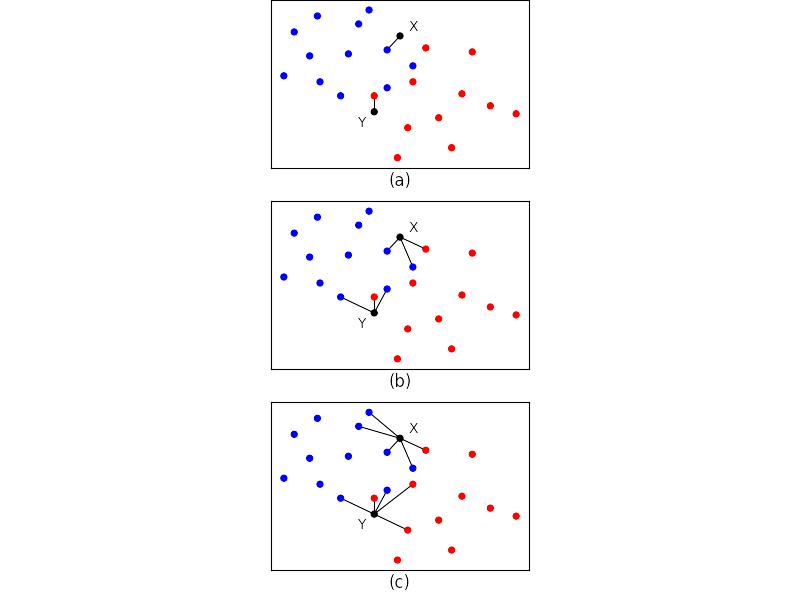
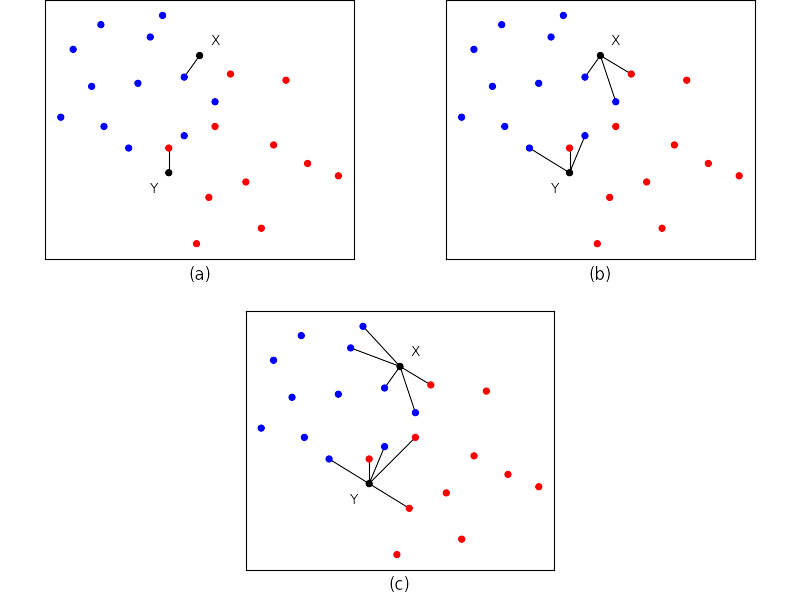
Changed layout of the kNN demo

diff --git a/src/examples/kNNDemo.py b/src/examples/kNNDemo.py
@@ -97,30 +97,35 @@ def main(figureSaveLocation):
 
     # Create the figure, the grids for the subplots and determine the spacing for the subplots.
     currentFigure = plt.figure()
-    gs = gridspec.GridSpec(3, 3)
-    gs.update(left=0, right=1, bottom=0.05, top=1, wspace=0.05)#, hspace=0.05)
+    gsTopRow = gridspec.GridSpec(2, 4)
+    gsBotRow = gridspec.GridSpec(2, 4)
+    gsTopRow.update(left=0.005, right=0.995, bottom=0.05, top=1, wspace=0.05)#, hspace=0.05)
+    gsBotRow.update(left=0.005, right=0.995, bottom=0.05, top=1, wspace=0.05)#, hspace=0.05)
 
     # Create the scatterplot for the 1NN graph.
-    leftScatterPlot = plt.subplot(gs[0, 1])  # Scatter plot for the 1NN example.
+    scatter1NN = plt.subplot(gsTopRow[0, 0:2])  # Scatter plot for the 1NN example.
+    scatter1NN.axis('scaled')
     scatterplot.graphGeneration(scatterXValues, scatterYValues, currentFigure=currentFigure, colors=colors, sizes=sizes, zorders=scatterZorders)
-    leftScatterPlot.set_xlim(left=scatterXMin - 0.5, right=scatterXMax + 0.5)
-    leftScatterPlot.set_ylim(bottom=scatterYMin - 0.5, top=scatterYMax + 0.5)
+    scatter1NN.set_xlim(left=scatterXMin - 0.5, right=scatterXMax + 0.5)
+    scatter1NN.set_ylim(bottom=scatterYMin - 0.5, top=scatterYMax + 0.5)
     linegraph.graphGeneration(coords1NNXValues, coords1NNYValues, currentFigure=currentFigure, markerSizes=[0] * 2, lineWidths=[1.0] * 2, zorders=lineZorder)
     addtext.graphGeneration([dataPointXTextXValue, dataPointYTextXValue], [dataPointXTextYValue, dataPointYTextYValue], ['X', 'Y'], currentFigure=currentFigure)
 
     # Create the scatterplot for the 3NN graph.
-    midScatterPlot = plt.subplot(gs[1, 1])  # Scatter plot for the 3NN example.
+    scatter3NN = plt.subplot(gsTopRow[0, 2:])  # Scatter plot for the 3NN example.
+    scatter3NN.axis('scaled')
     scatterplot.graphGeneration(scatterXValues, scatterYValues, currentFigure=currentFigure, colors=colors, sizes=sizes, zorders=scatterZorders)
-    midScatterPlot.set_xlim(left=scatterXMin - 0.5, right=scatterXMax + 0.5)
-    midScatterPlot.set_ylim(bottom=scatterYMin - 0.5, top=scatterYMax + 0.5)
+    scatter3NN.set_xlim(left=scatterXMin - 0.5, right=scatterXMax + 0.5)
+    scatter3NN.set_ylim(bottom=scatterYMin - 0.5, top=scatterYMax + 0.5)
     linegraph.graphGeneration(coords3NNXValues, coords3NNYValues, currentFigure=currentFigure, markerSizes=[0] * 6, lineWidths=[1.0] * 6, zorders=lineZorder)
     addtext.graphGeneration([dataPointXTextXValue, dataPointYTextXValue], [dataPointXTextYValue, dataPointYTextYValue], ['X', 'Y'], currentFigure=currentFigure)
 
     # Create the scatterplot for the 5NN graph.
-    botScatterPlot = plt.subplot(gs[2, 1])  # Scatter plot for the 5NN example.
+    scatter5NN = plt.subplot(gsBotRow[1, 1:3])  # Scatter plot for the 5NN example.
+    scatter5NN.axis('scaled')	
     scatterplot.graphGeneration(scatterXValues, scatterYValues, currentFigure=currentFigure, colors=colors, sizes=sizes, zorders=scatterZorders)
-    botScatterPlot.set_xlim(left=scatterXMin - 0.5, right=scatterXMax + 0.5)
-    botScatterPlot.set_ylim(bottom=scatterYMin - 0.5, top=scatterYMax + 0.5)
+    scatter5NN.set_xlim(left=scatterXMin - 0.5, right=scatterXMax + 0.5)
+    scatter5NN.set_ylim(bottom=scatterYMin - 0.5, top=scatterYMax + 0.5)
     linegraph.graphGeneration(coords5NNXValues, coords5NNYValues, currentFigure=currentFigure, markerSizes=[0] * 10, lineWidths=[1.0] * 10, zorders=lineZorder)
     addtext.graphGeneration([dataPointXTextXValue, dataPointYTextXValue], [dataPointXTextYValue, dataPointYTextYValue], ['X', 'Y'], currentFigure=currentFigure)
 
